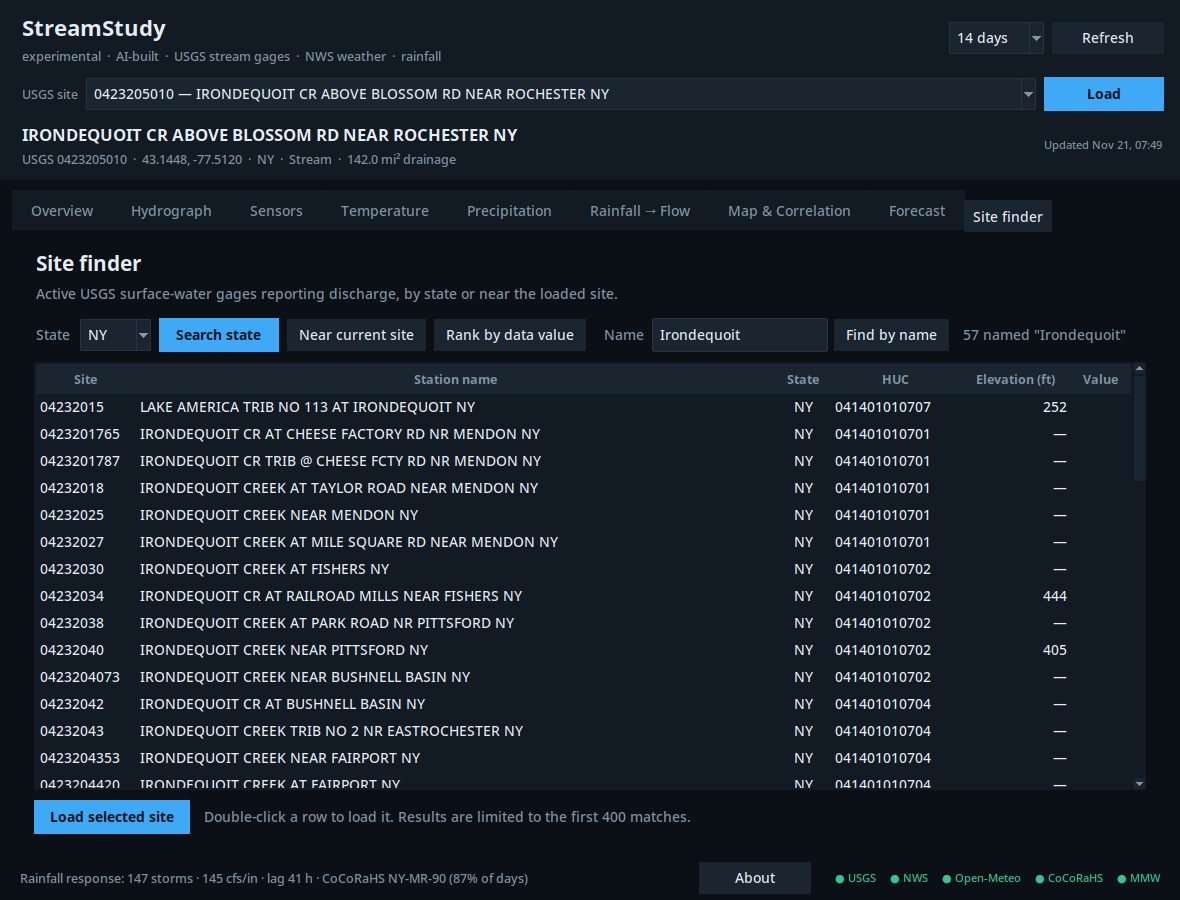
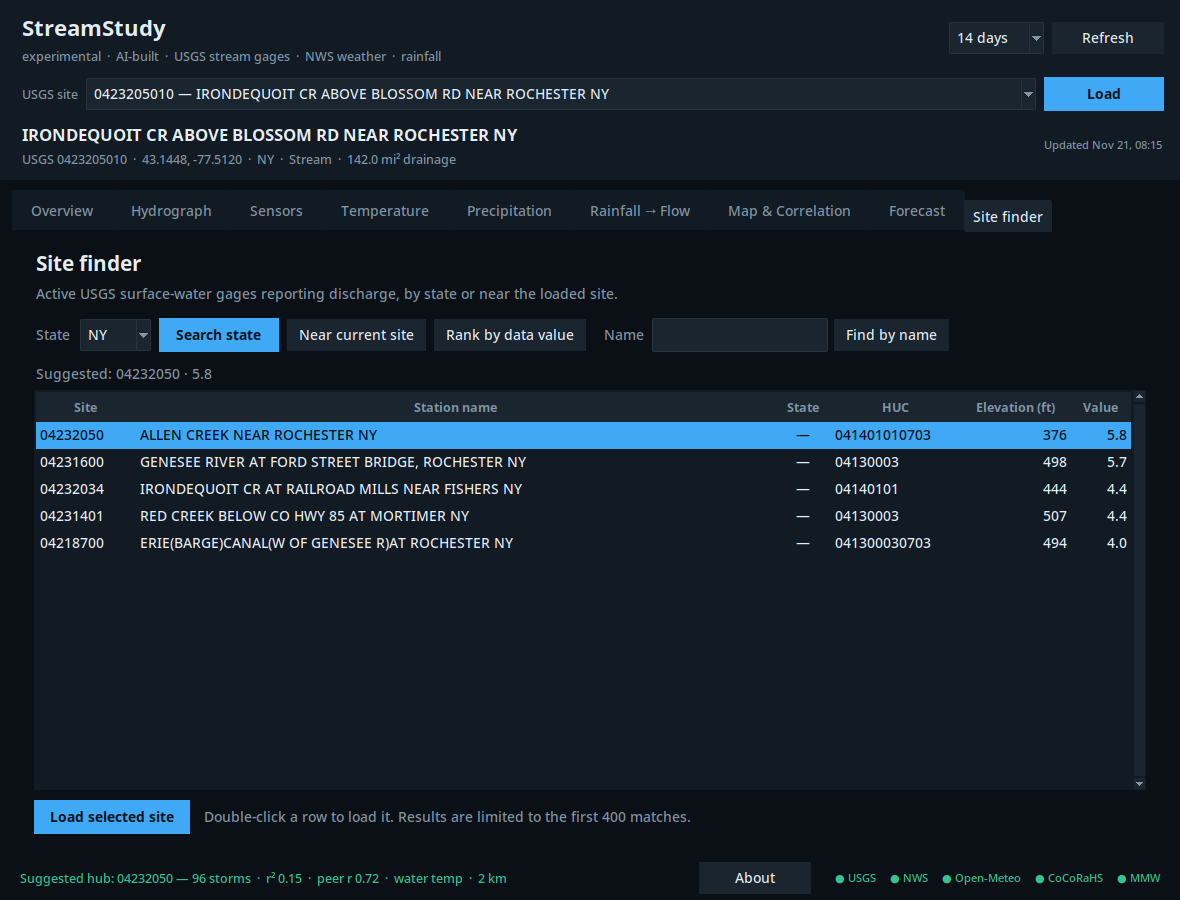
Refresh docs and screenshots; tidy Site finder status
- Regenerate every docs/screenshot from the current app, including the new
  Temperature tab and a live 'Rank by data value' run on Site finder
- README: update the view list and quick-start blurb for sensors, temperature
  and map; INSTALL mentions the ranking
- Site finder status now sits on its own row (the long suggestion no longer
  clips) and reads 'Suggested: ID · score'
- Test updated for the shorter status text

diff --git a/streamstudy/ui/sites_view.py b/streamstudy/ui/sites_view.py
@@ -68,9 +68,9 @@ class SitesView(ttk.Frame):
             side="left", padx=(6, 0)
         )
         self.status_var = tk.StringVar(value="Pick a state, or search near the loaded site.")
-        ttk.Label(
-            controls, textvariable=self.status_var, style="Muted.TLabel"
-        ).pack(side="left", padx=12)
+        ttk.Label(self, textvariable=self.status_var, style="Muted.TLabel").grid(
+            row=2, column=0, sticky="w", pady=(0, 4)
+        )
 
         tree_frame, self.tree = treeview(
             self,
@@ -201,7 +201,7 @@ class SitesView(ttk.Frame):
         if ranking.hub is not None:
             self.tree.selection_set(ranking.hub.site.number)
             self.status_var.set(
-                f"Suggested hub: {ranking.hub.site.number} \u2014 {ranking.hub.reasons}"
+                f"Suggested: {ranking.hub.site.number} \u00b7 {ranking.hub.score:.1f}"
             )
         else:
             self.status_var.set(f"{len(self._sites)} gages ranked")

diff --git a/tests/test_app_smoke.py b/tests/test_app_smoke.py
@@ -269,7 +269,7 @@ class AppSmokeTest(unittest.TestCase):
         self.assertEqual(len(rows), 1)
         values = self.app.sites_view.tree.item(rows[0], "values")
         self.assertEqual(values[-1], "6.4")
-        self.assertIn("Suggested hub", self.app.sites_view.status_var.get())
+        self.assertIn("Suggested:", self.app.sites_view.status_var.get())
 
     def test_temperature_threshold_persists(self):
         self.app.set_temperature_threshold(18.5)

diff --git a/README.md b/README.md
@@ -200,8 +200,8 @@ cd ~/Documents/RFD_LL_StreamStudy-main
 python3 -m streamstudy
 ```
 
-The app opens on USGS `0423205010` (Irondequoit Creek, Rochester NY) and loads data in the
-background. Try another gage with `--site`:
+The app opens on USGS `0423205010` (Irondequoit Creek, Rochester NY) and loads conditions,
+history, weather, sensors, temperature, map and forecast in the background. Try another gage with `--site`:
 
 ```bash
 python3 -m streamstudy --site 0423205010 --days 30
@@ -249,12 +249,13 @@ Override the file location with `--settings PATH` or `$STREAMSTUDY_SETTINGS`.
 provider API ──► parse_*() ──► models (Site, Series, FlowEvent, ResponseFit…)
                                    │
                         BundleLoader
-             .load()        — current conditions, all four sources
+             .load()        — current conditions, weather, sensors, all sources
              .load_history()— multi-year daily flow + rain, then response fit
                                    │
                 StreamStudyApp (worker thread → queue → Tk main thread)
                                    │
-  HomeView · HydroView · PrecipView · ResponseView · ForecastView · SitesView
+  HomeView · HydroView · SensorsView · TemperatureView · PrecipView ·
+  ResponseView · MapView · ForecastView · SitesView
 ```
 
 - **`providers/`** — one module per network. Parsing functions are pure and unit tested against

diff --git a/INSTALL.md b/INSTALL.md
@@ -239,7 +239,8 @@ Still stuck? Open an issue at
 - **Rainfall → Flow** — historical storms vs flow response, plus a forecast scenario
 - **Map & Correlation** — clickable gages, drag to pan, scroll to zoom, cross-correlations
 - **Forecast** — NWS forecast text, QPF bars and precipitation probability
-- **Site finder** — find gages by state, distance or station name
+- **Site finder** — find gages by state, distance or station name, and **Rank by data value**
+  to suggest the best nearby hub
 
 Use **Settings → Reset settings to defaults…** in the menu bar to restore every preference
 (threshold, remembered metrics, recent sites) while keeping the current gage loaded.
